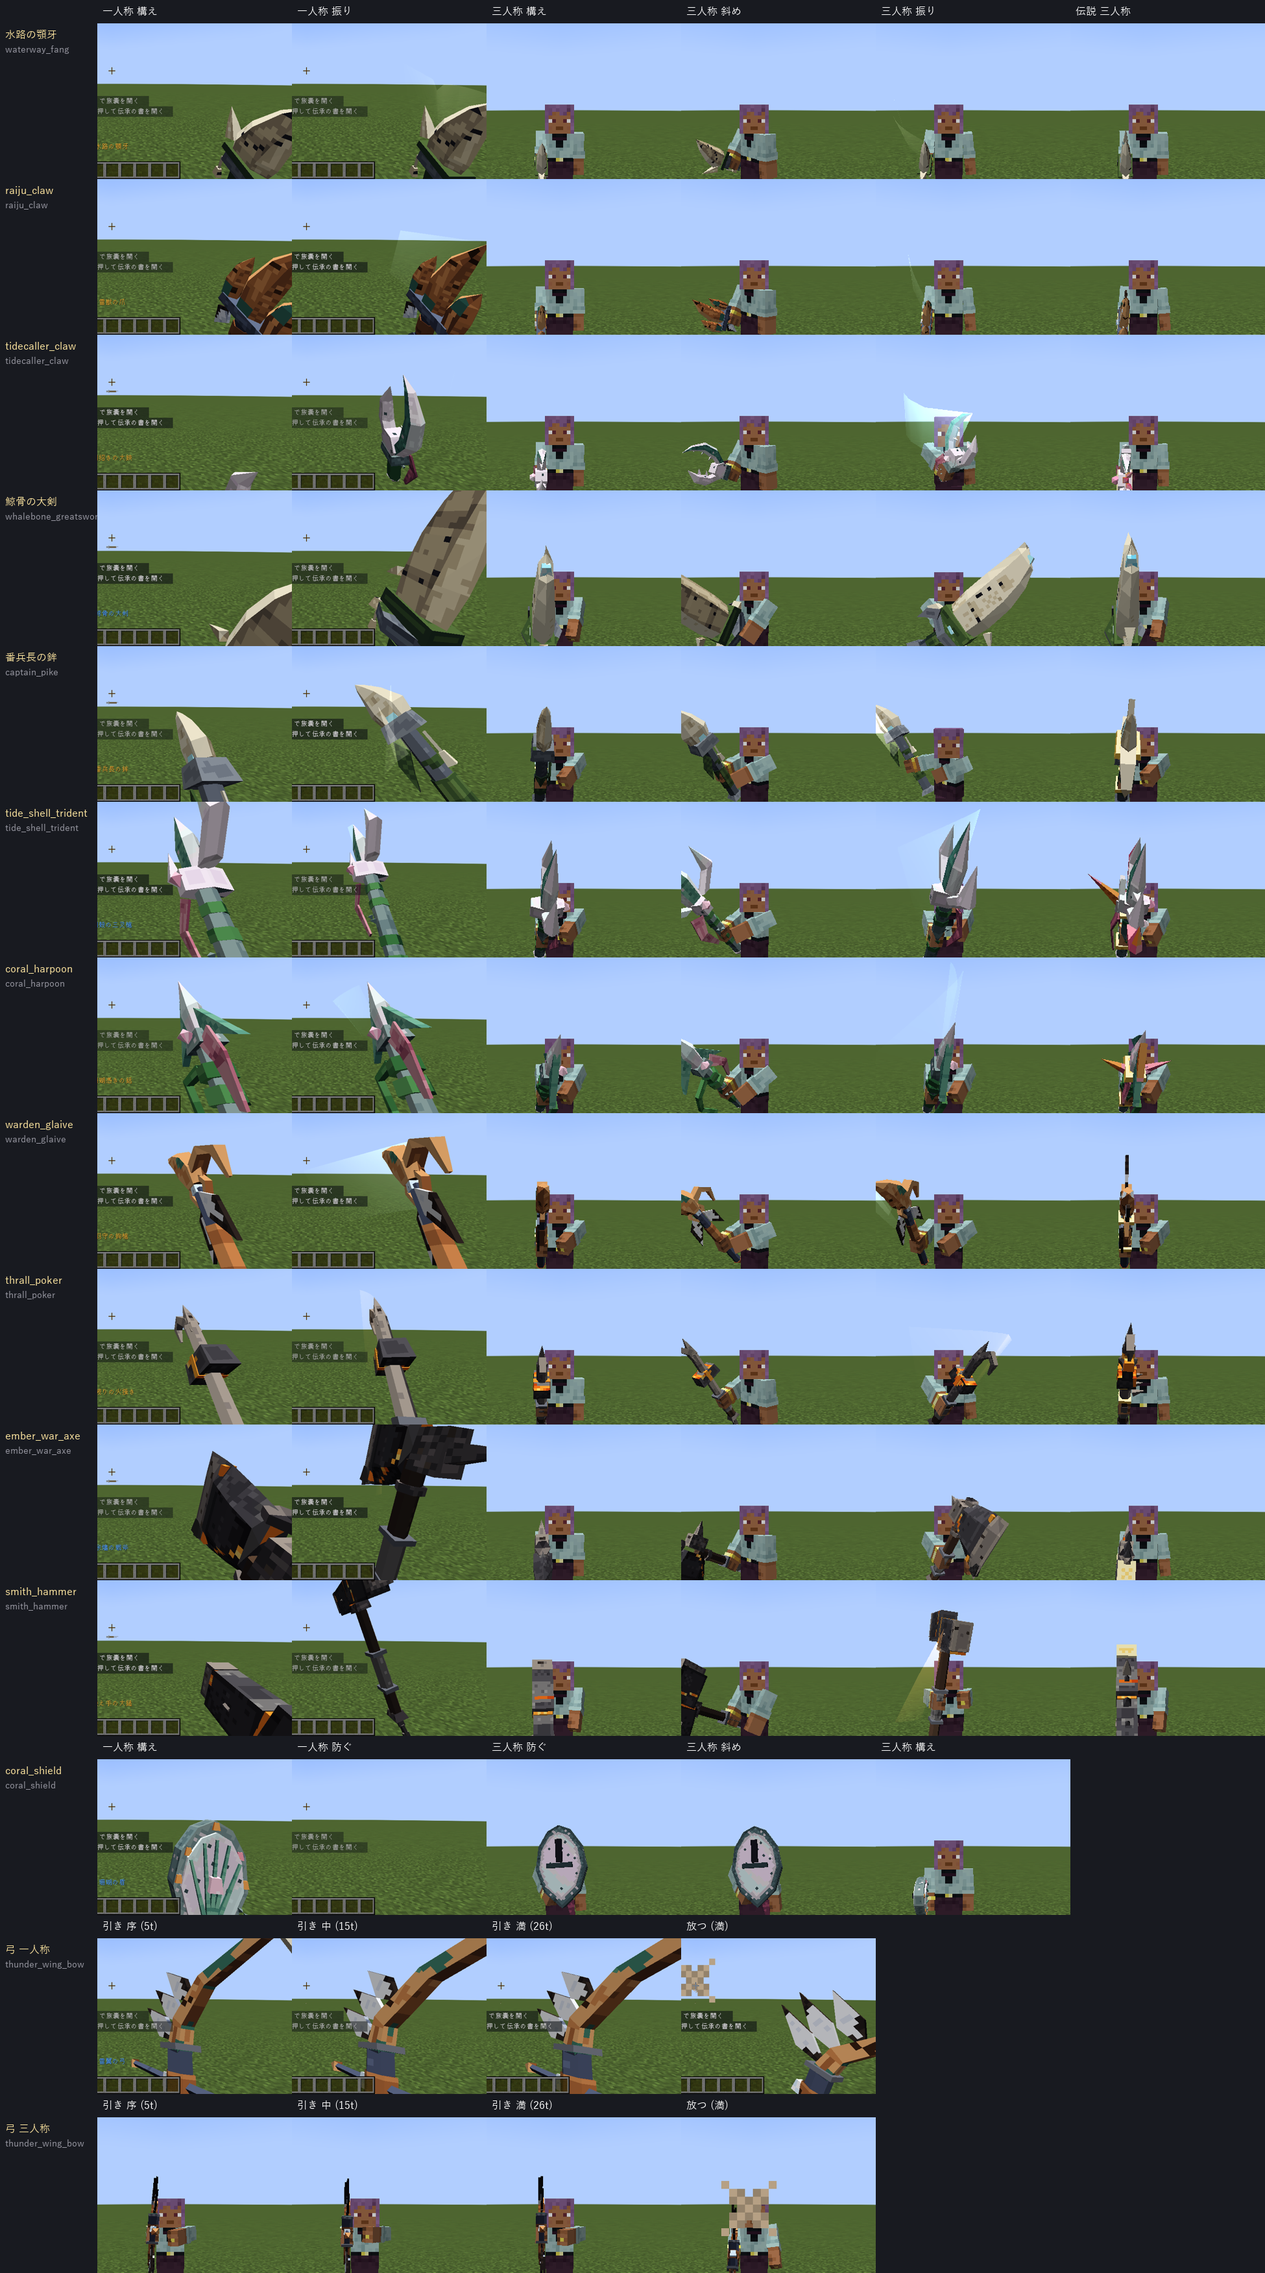
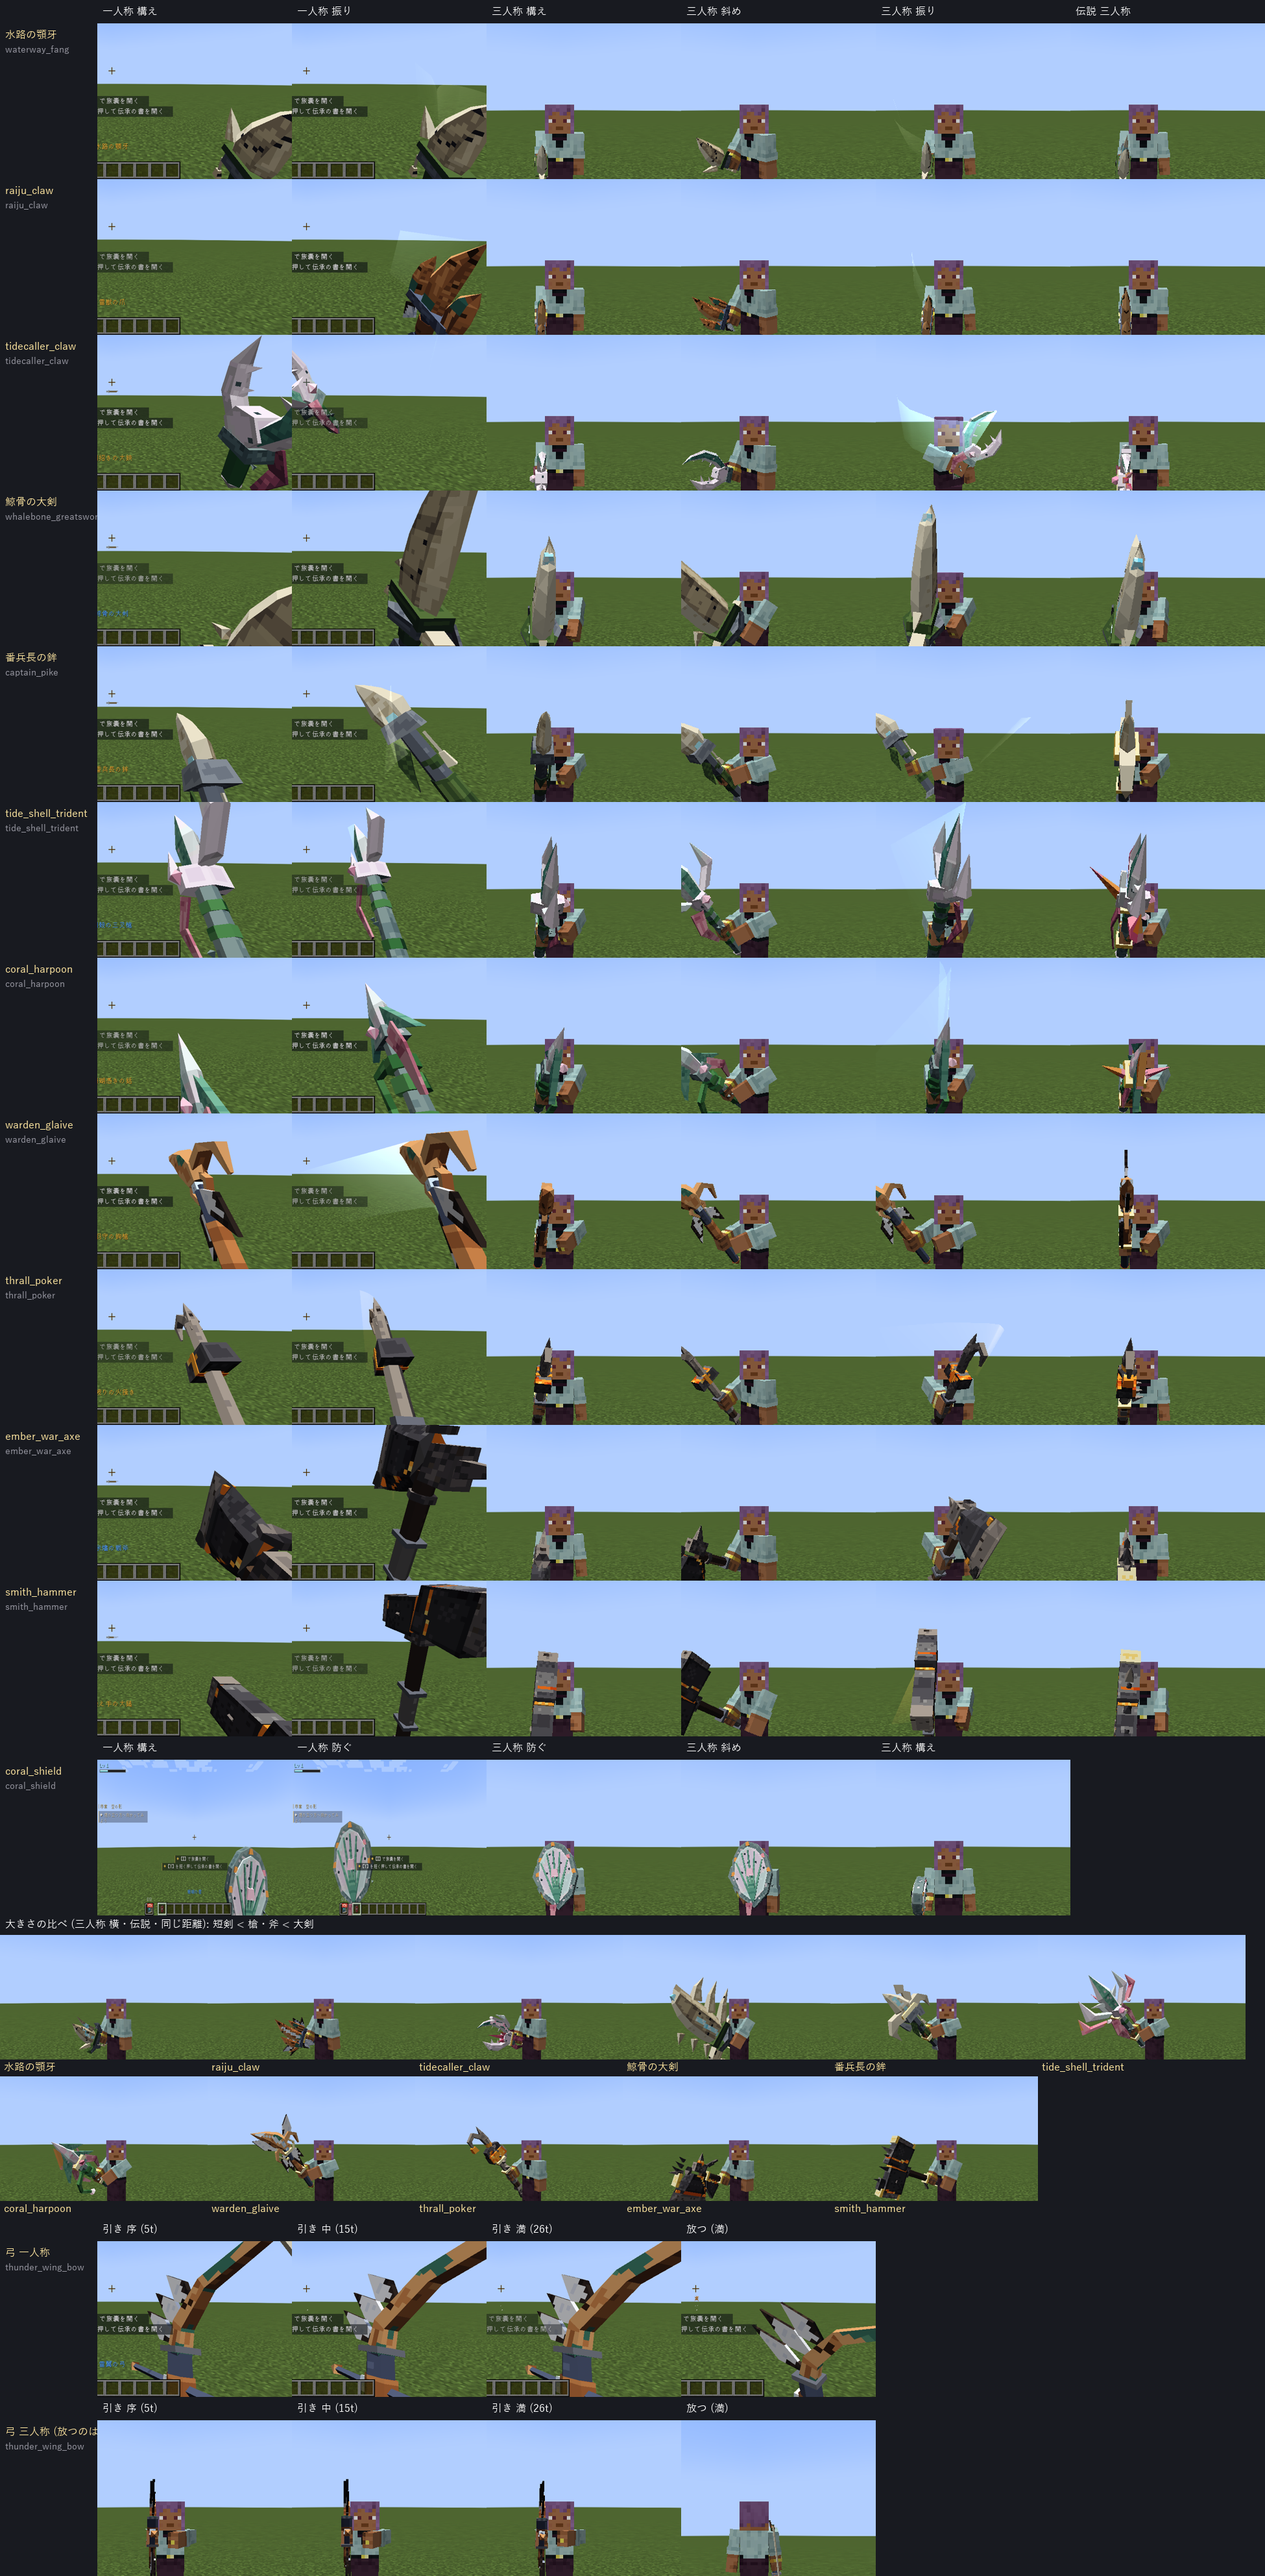
Weapon hold pass 2b: shield BLOCK pose faces fan forward on forearm, heavy-weapon first-person damping, tidecaller claw raised, side size strip

diff --git a/tools/weapon_display.py b/tools/weapon_display.py
@@ -116,12 +116,12 @@ BOW_GRIP = (5.0, 8.2)
 # 武器ごとの持ち方: (三人称, 一人称)。右手の値
 HELD = {
     # 剣・爪・斧・鎚: バニラの向きのまま、大きさと位置だけ合わせる (全体に 15〜25% 大きく。短剣・爪は 35% 大きく)
-    "whalebone_greatsword": (t((0, -90, 55), (0, 4.5, 0.5), 1.7), t((0, -90, 25), (0.5, 4.6, 1.13), 0.74)),
+    "whalebone_greatsword": (t((0, -90, 55), (0, 4.5, 0.5), 1.7), t((0, -90, 25), (0.5, 4.6, 1.13), 0.7)),
     "waterway_fang": (t((0, -90, 55), (0, 4.0, 0.5), 1.05), t((0, -90, 25), (1.13, 3.2, 1.13), 0.57)),
     "raiju_claw": (t((0, -90, 55), (0, 4.0, 0.5), 1.05), t((0, -90, 25), (1.13, 3.2, 1.13), 0.57)),
-    "tidecaller_claw": (t((0, -90, 55), (0, 4.0, 0.5), 1.05), t((0, -90, 25), (1.13, 3.2, 1.13), 0.57)),
-    "ember_war_axe": (t((0, -90, 55), (0, 4.0, 0.5), 1.3), t((0, -90, 25), (0.5, 4.6, 1.13), 0.78)),
-    "smith_hammer": (t((0, -90, 55), (0, 4.0, 0.5), 1.2), t((0, -90, 25), (0.5, 4.6, 1.13), 0.62)),
+    "tidecaller_claw": (t((0, -90, 55), (0, 4.0, 0.5), 1.05), t((0, -90, 25), (1.13, 9.5, 1.13), 0.65)),
+    "ember_war_axe": (t((0, -90, 55), (0, 4.0, 0.5), 1.3), t((0, -90, 25), (0.5, 4.6, 1.13), 0.68)),
+    "smith_hammer": (t((0, -90, 55), (0, 4.0, 0.5), 1.2), t((0, -90, 25), (0.5, 4.6, 1.13), 0.52)),
     # 槍・長柄・火かき棒: 穂先が前へ (手は柄の下から 1/4〜1/3 のところ)
     "captain_pike": _fwd(66, 1.5, 1.05, 5),
     "tide_shell_trident": _fwd(66, 1.5, 1.05, 5),
@@ -129,8 +129,8 @@ HELD = {
     "warden_glaive": _fwd(66, 1.45, 1.05, 5),
     "thrall_poker": _fwd(57, 1.3, 0.95, 4),
     # 深淵の専用伝説: 大剣は鯨骨の大剣、鎌は戦斧と同じ持ち方。杖は頭を上にして柄の 1/3 を握る
-    "abyss_greatsword": (t((0, -90, 55), (0, 4.5, 0.5), 1.7), t((0, -90, 25), (0.5, 4.6, 1.13), 0.74)),
-    "abyss_ash_scythe": (t((0, -90, 55), (0, 4.0, 0.5), 1.3), t((0, -90, 25), (0.5, 4.6, 1.13), 0.78)),
+    "abyss_greatsword": (t((0, -90, 55), (0, 4.5, 0.5), 1.7), t((0, -90, 25), (0.5, 4.6, 1.13), 0.7)),
+    "abyss_ash_scythe": (t((0, -90, 55), (0, 4.0, 0.5), 1.3), t((0, -90, 25), (0.5, 4.6, 1.13), 0.68)),
     "abyss_bell_staff": (staff_hold("tp", 57, 1.3, 4.5, (0, 0, 1.0)), staff_hold("fp", 0, 0.72, 4.5, (1.0, -1.2, 0.0), 8)),
 }
 # 弓 (引き絵 3 枚も同じ持ち方。引くときは腕を前へまっすぐ上げる)。弦が射手の側、腹が前、縦に立てる
@@ -182,6 +182,9 @@ SHIELD_FP = {
 }
 
 
+TP_BLOCK = ([45, -45, 0], [3.51, 8, -2])  # 構えの三人称: 盾の表 (珊瑚の扇) を前へ向け、頭ではなく胸の高さへ
+
+
 def shield_display(name, current):
     out = copy.deepcopy(current)
     for hand, key in (("r", "firstperson_righthand"), ("l", "firstperson_lefthand")):
@@ -189,6 +192,7 @@ def shield_display(name, current):
         out[key] = {"rotation": rot, "translation": tr, "scale": [sc] * 3}
     if name == "coral_shield_blocking":
         # 三人称の構え: 左手 (副の手) は右手と同じ数 (エンジンが左手のとき回転 y・z と移動 x を反転して、体の中心で鏡に映した姿になる)
+        out["thirdperson_righthand"] = {"rotation": TP_BLOCK[0], "translation": TP_BLOCK[1], "scale": [0.85, 0.85, 0.85]}
         out["thirdperson_lefthand"] = copy.deepcopy(out["thirdperson_righthand"])
     return out
 

diff --git a/tools/weapon_hold2_sheet.py b/tools/weapon_hold2_sheet.py
@@ -24,7 +24,9 @@ def font(n):
     return ImageFont.load_default()
 
 
-def crop(img, view):
+def crop(img, view, item=''):
+    if item == 'coral_shield' and view.startswith('fp'):  # 盾の一人称は左寄りなので全体を縮める
+        return img.resize((W, H))
     if view.startswith("tp"):
         return img.crop((360, 110, 680, 370)).resize((W, int(W * 260 / 320)))
     return img.crop((440, 150, 960, 540)).resize((W, H))
@@ -43,7 +45,7 @@ def grid(rows, cols, label_of, path_of, out):
         for c, (_, tier, view) in enumerate(cols):
             p = path_of(it, tier, view)
             if p.exists():
-                sheet.paste(crop(Image.open(p).convert("RGB"), view), (LABEL + c * W, y))
+                sheet.paste(crop(Image.open(p).convert("RGB"), view, it), (LABEL + c * W, y))
     return sheet
 
 
@@ -55,10 +57,21 @@ def main():
     cols2 = [("一人称", "", "fp"), ("三人称 正面", "", "tp"), ("三人称 斜め", "", "tpSide")]
     shield = grid(["coral_shield"], [("一人称 構え", "common", "fpIdle"), ("一人称 防ぐ", "common", "fpGuard"), ("三人称 防ぐ", "common", "tpGuard"),
                                      ("三人称 斜め", "common", "tpGuardSide"), ("三人称 構え", "common", "tpIdle")], lab, lambda it, t, v: D / f"{it}_{t}_{v}.png", out)
-    bcols = [("引き 序 (5t)", "", "Draw0"), ("引き 中 (15t)", "", "Draw1"), ("引き 満 (26t)", "", "Draw2"), ("放つ (満)", "", "Release2")]
-    parts = [a, shield]
-    for tag, name in (("fp", "弓 一人称"), ("tp", "弓 三人称")):
-        parts.append(grid([f"thunder_wing_bow"], [(n, t, f"{tag}{v}") for n, t, v in bcols], lambda it, nm=name: nm, lambda it, t, v: D / f"{it}_{v}.png", out))
+    bcols = [("引き 序 (5t)", "", "Draw0"), ("引き 中 (15t)", "", "Draw1"), ("引き 満 (26t)", "", "Draw2"), ("放つ (満)", "", "Release2b")]
+    # 大きさの比べ: 三人称を横から、同じ距離・同じ切り出しで (伝説 = いちばん大きい階級)
+    f = font(16)
+    strip = Image.new("RGB", (1920, 2 * (192 + 26) + 30), (24, 26, 32))
+    d = ImageDraw.Draw(strip)
+    d.text((8, 4), "大きさの比べ (三人称 横・伝説・同じ距離): 短剣 < 槍・斧 < 大剣", font=f, fill=(255, 255, 255))
+    for n, it in enumerate(ITEMS):
+        x, y = (n % 6) * 320, 30 + (n // 6) * 218
+        p = D / f"{it}_legend_tpSide.png"
+        if p.exists():
+            strip.paste(Image.open(p).convert("RGB").crop((200, 90, 700, 390)).resize((320, 192)), (x, y))
+        d.text((x + 6, y + 194), lab(it), font=f, fill=(255, 230, 160))
+    parts = [a, shield, strip]
+    for tag, name in (("fp", "弓 一人称"), ("tp", "弓 三人称 (放つのは背中側から)")):
+        parts.append(grid([f"thunder_wing_bow"], [(n, t, f"{tag}{v}") for n, t, v in (bcols if tag == "fp" else bcols[:3] + [("放つ (満)", "", "Release2b")])], lambda it, nm=name: nm, lambda it, t, v: D / f"{it}_{v}.png", out))
     w = max(p.width for p in parts)
     sheet = Image.new("RGB", (w, sum(p.height for p in parts)), (24, 26, 32))
     y = 0

diff --git a/src/main/java/jp/revati/skyabyss/client/weapon/WeaponClient.java b/src/main/java/jp/revati/skyabyss/client/weapon/WeaponClient.java
@@ -69,10 +69,25 @@ public final class WeaponClient {
 
     // 一人称: 動きの一コマ (MoveSet の段) を手元に足す。回転の軸は、バニラの振りと同じに斜め 45 度 (体の中心へ向かう向き) に取る:
     // 前後に傾ける RX、ひねる RZ、横へ薙ぐ RY。RY・RZ の全回転は、混ぜ具合をかけても巻き戻らないよう角度を丸めてから混ぜる
+    // 一人称では重い武器 (大鎚・戦斧・大剣・鎌) は画面を覆わないよう、動きの手元の移動・回転を弱める (三人称の腕・胴の動きはそのまま)
+    private static float fpDamp(String id) {
+        return switch (id) {
+            case "smith_hammer" -> 0.5f;
+            case "ember_war_axe", "abyss_ash_scythe" -> 0.65f;
+            case "whalebone_greatsword", "abyss_greatsword" -> 0.75f;
+            default -> 1f;
+        };
+    }
+
     private static void applyStep(PoseStack pose, int i, SwingClock.Active a, boolean frozen, long tick) {
+        applyStep(pose, i, a, frozen, tick, 1f);
+    }
+
+    private static void applyStep(PoseStack pose, int i, SwingClock.Active a, boolean frozen, long tick, float k) {
         MoveSet.Step st = a.step();
         float t = a.t();
         float w = a.w();
+        w *= k;
         pose.translate(i * st.get(MoveSet.TX, t, 0f) * w, st.get(MoveSet.TY, t, 0f) * w, st.get(MoveSet.TZ, t, 0f) * w);
         if (frozen) {
             // ヒットストップ: 止まっている間、ほんの小さく震える
@@ -82,8 +97,8 @@ public final class WeaponClient {
         pose.mulPose(Axis.ZP.rotationDegrees(i * WeaponArmPoses.wrap(st.get(MoveSet.RZ, t, 0f)) * w));
         pose.mulPose(Axis.XP.rotationDegrees(st.get(MoveSet.RX, t, 0f) * w));
         pose.mulPose(Axis.YP.rotationDegrees(i * -45f));
-        WeaponFeel.fpTrail = st.get(MoveSet.TRAIL, t, 0f) * w;
-        WeaponFeel.fpGlow = st.get(MoveSet.GLOW, t, 0f) * w;
+        WeaponFeel.fpTrail = st.get(MoveSet.TRAIL, t, 0f) * a.w();
+        WeaponFeel.fpGlow = st.get(MoveSet.GLOW, t, 0f) * a.w();
     }
 
     // 一人称: 待機のゆれ (呼吸)
@@ -255,7 +270,7 @@ public final class WeaponClient {
             MoveSet ms = MoveSets.get(id);
             SwingClock.Active a = stack == player.getMainHandItem() ? SwingClock.current(player, partialTick) : null;
             if (a != null) {
-                applyStep(pose, i, a, SwingClock.frozen(player), player.tickCount);
+                applyStep(pose, i, a, SwingClock.frozen(player), player.tickCount, fpDamp(id));
             } else if (ms != null) {
                 applyIdle(pose, i, ms, player, partialTick);
             }

diff --git a/tools/gen_weapon_hold2_shots.py b/tools/gen_weapon_hold2_shots.py
@@ -56,17 +56,17 @@ def main():
         v("coral_shield_common_fpIdle", "first", True)
         v("coral_shield_common_tpIdle", "front", False, 0)
         out.extend(["perspective first", "bodyyaw 0", "hud on", "use", "wait 12", "chat clear", "shot coral_shield_common_fpGuard", "perspective front", "hud off", "wait 4",
-                    "shot coral_shield_common_tpGuard", "bodyyaw 70", "wait 4", "shot coral_shield_common_tpGuardSide", "stopuse", "wait 20"])
+                    "shot coral_shield_common_tpGuard", "bodyyaw 45", "shot coral_shield_common_tpGuardSide", "stopuse", "wait 20"])
         # 副の手に盾、主の手に槍 (ふつうの使い方)
         out.extend(["cmd item replace entity @s weapon.mainhand with skyabyss:captain_pike", "cmd item replace entity @s weapon.offhand with skyabyss:coral_shield",
                     "perspective first", "bodyyaw 0", "hud on", "wait 10", "chat clear", "shot offhand_shield_fpIdle", "use", "wait 12", "chat clear", "shot offhand_shield_fpGuard",
-                    "perspective front", "hud off", "wait 4", "shot offhand_shield_tpGuard", "bodyyaw 70", "wait 4", "shot offhand_shield_tpGuardSide", "stopuse", "wait 10",
+                    "perspective front", "hud off", "wait 4", "shot offhand_shield_tpGuard", "bodyyaw 45", "shot offhand_shield_tpGuardSide", "stopuse", "wait 10",
                     "cmd item replace entity @s weapon.offhand with minecraft:air"])
     if want("bow"):
         out.append(f"cmd item replace entity @s weapon.mainhand with skyabyss:{BOW}")
         for persp, tag, hud in (("first", "fp", True), ("front", "tp", False)):
             for n, ticks in enumerate((5, 15, 26)):
-                out.extend([f"perspective {persp}", "bodyyaw 0", "hud on" if hud else "hud off", "use", f"wait {ticks}", "chat clear", f"shot {BOW}_{tag}Draw{n}", "stopuse", "wait 3", f"shot {BOW}_{tag}Release{n}", "wait 25"])
+                out.extend([f"perspective {persp}", "bodyyaw 0", "hud on" if hud else "hud off", "use", f"wait {ticks}", "chat clear", f"shot {BOW}_{tag}Draw{n}", "stopuse", "wait 1", f"shot {BOW}_{tag}Release{n}a", "wait 2", f"shot {BOW}_{tag}Release{n}"] + (["perspective back", "wait 3", f"shot {BOW}_{tag}Release{n}b"] if tag == "tp" else ["wait 4", f"shot {BOW}_{tag}Release{n}b"]) + ["wait 25"])
     out.append("quit")
     (ROOT / "tools/shots/weapon_hold2.txt").write_text(chr(10).join(out) + chr(10), encoding="utf-8")
 
